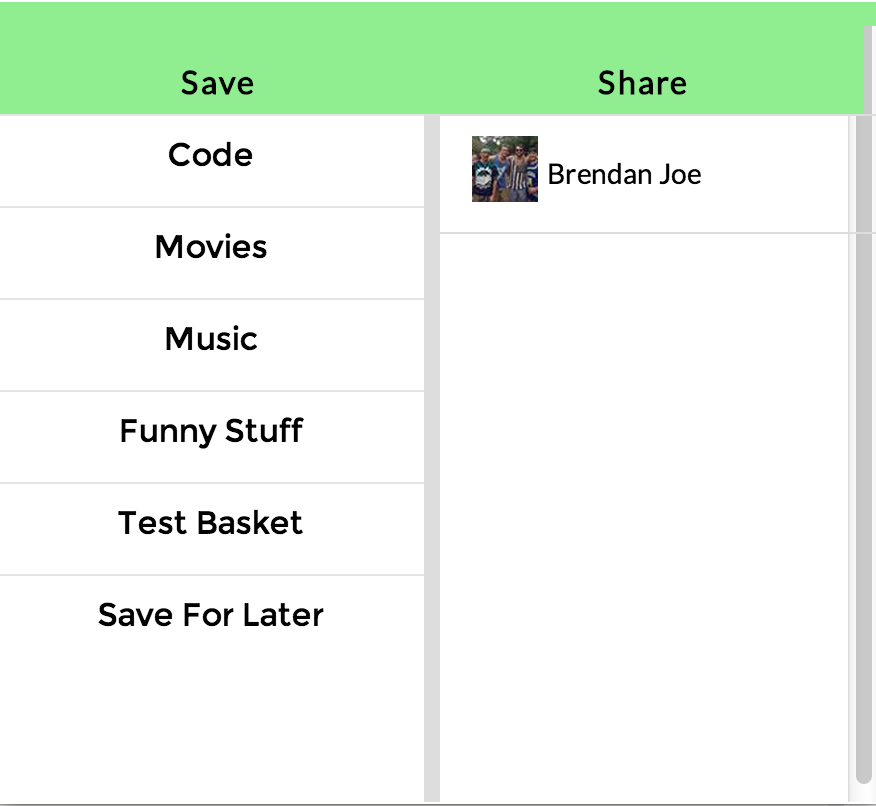
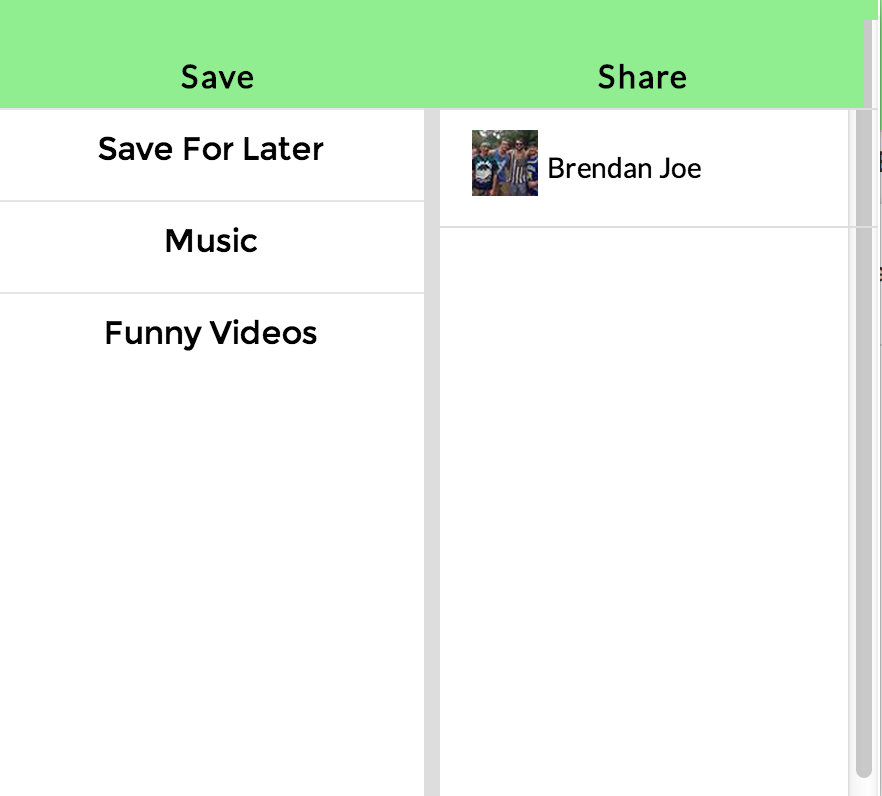
completed about and extension page

diff --git a/app/assets/stylesheets/links.less b/app/assets/stylesheets/links.less
@@ -129,20 +129,25 @@
     height: 130px;
     position: relative;
 
-    .img-holder {
-      position: absolute;
-      height: 100%;
-      width: 23%;
-      z-index: 1;
+
+    .sender-info {
+      top: 36px;
+      margin-left: 20px;
+      position: relative;
 
       img {
-        max-height: 86%;
         position: absolute;
-        top: 17px;
-        left: 8px;
+      }
+
+      h4 {
+        position: absolute;
+        font-size: 14px;
+        line-height: 16px;
+        left: 55px;
+        top: -8px;
       }
     }
-
+    
     .folder-link {
       height: 100%;
       background-color: #ffffff;
@@ -150,22 +155,23 @@
       border-bottom: 1px solid #ddd;
       padding: 0 0 10px 27%;
 
-        .sender-info {
-          position: relative;
-          margin: 9px 0 64px 0;
+      .img-holder {
+        position: absolute;
+        height: 50%;
+        width: 23%;
+        z-index: 1;
 
-          img {
-            position: absolute;
-          }
-
-          h4 {
-            position: absolute;
-            font-size: 14px;
-            line-height: 16px;
-            left: 55px;
-            top: -8px;
-          }
+        img {
+          max-width: 115px;
+          position: absolute;
+          top: 5px;
+          left: 1px;
         }
+      }
+
+      .text-holder {
+        margin-top: 70px;
+      }
 
         .link-trash {
           cursor: pointer;

diff --git a/app/assets/stylesheets/about.less b/app/assets/stylesheets/about.less
@@ -102,7 +102,7 @@
 .how-to-use {
   position: relative;
   height: 200px;
-  margin-bottom: 80px;
+  margin-bottom: 200px;
 
   h2 {
     text-align: center;
@@ -135,6 +135,12 @@
       font-size: 80px;
       color: #2d2d2d;
     }
+  }
+
+  .first-basket{
+    clear: both;
+    margin: 0 100px;
+    text-align: center;
   }
 }
 

diff --git a/app/controllers/folder_links_controller.rb b/app/controllers/folder_links_controller.rb
@@ -7,18 +7,6 @@ class FolderLinksController < ApplicationController
     @folder_link = FolderLink.where(link_id: params[:id],
                                     folder_id: params[:folder_id])[0]
     @folder_link.destroy
-    # link_dependencies = FolderLink.where(link_id: params[:id]) # []
-    
-    # if link_dependencies.length == 1
-    #   @link = Link.find(params[:id]).destroy
-    #   folder_link = FolderLink.where(link_id: params[:id],
-    #                                   folder_id: params[:folder_id])
-    #   folder_link[0].destroy
-    # else
-    #   folder_link = FolderLink.where(link_id: params[:id],
-    #                                   folder_id: params[:folder_id])
-    #   folder_link[0].destroy
-    # end
 
     respond_with(@folder_link)
   end

diff --git a/app/controllers/sessions_controller.rb b/app/controllers/sessions_controller.rb
@@ -5,9 +5,7 @@ class SessionsController < ApplicationController
 
     if SharedBasket.where(user_id: user.id).first == nil
       SharedBasket.where(user_id: user.id).create
-      Folder.where(name: "Read Later", user_id: user.id).first_or_create
-      Folder.where(name: "Funny Links", user_id: user.id).first_or_create
-      Folder.where(name: "New Music", user_id: user.id).first_or_create
+      Folder.where(name: "Save For Later", user_id: user.id).first_or_create
     else
       SharedBasket.where(user_id: user.id).first
     end

diff --git a/app/controllers/folders_controller.rb b/app/controllers/folders_controller.rb
@@ -35,7 +35,7 @@ class FoldersController < ApplicationController
   def users_folders
     user = User.find(current_user.id)
 
-    @folders = user.folders
+    @folders = user.folders.order('created_at ASC')
     render partial: "folders"
     # render :json => { @folders }
   end
